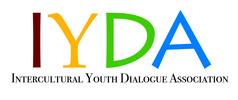
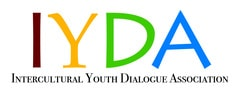
fix: compressed images

diff --git a/index.html b/index.html
@@ -1,1 +1,1 @@
-<!DOCTYPE html><head><title>Portfolio</title><meta name="viewport" content="width=device-width, initial-scale=1"><link rel="stylesheet" href="./editor/css/main.css" async></head><body><header class="frame"><div class="para1"></div><div class="para2"></div><div class="para3"></div><div class="head_frame"><div class="text"><p>Hello! My name is Sankit and I'm a</p><p>Full Stack developer. When I'm not</p><p>freelancing, I work on local</p><p>projects to learn and explore new</p><p>technologies.</p><br><p>I love working on the web but I'm also</p><p>intrested in console applications and</p><p>computer sciences in general.</p></div></div><div class="dp"><div class="intro"><h1>Hello!</h1></div></div><div class="social_frame"><a href="https://github.com/sankitshane" target="_blank"><div class="icons github"></div></a><a href="https://www.linkedin.com/in/sankit-acharya-476760113/" target="_blank"><div class="icons linkedin"></div></a><a href="https://www.instagram.com/sankit_shane/?hl=en" target="_blank"><div class="icons instagram"></div></a><a href="https://www.facebook.com/sankit.acharya" target="_blank"><div class="icons facebook"></div></a></div></header><section class="portfolio"><div class="title"><h1>Portfolio</h1></div><div id="projects_club"><a href="https://github.com/sankitshane/Neighborhood-Map" target="_blank"><div class="project" id="project1"></div></a><a href="https://github.com/sankitshane/CatalogApp" target="_blank"><div class="project" id="project2"></div></a><a href="https://github.com/sankitshane/frontend-nanodegree-arcade-game" target="_blank"><div class="project" id="project3"></div></a><a href="https://github.com/sankitshane/J2EE-Project" target="_blank"><div class="project" id="project4"></div></a></div></section><section class="lang" style="height:620px;"><div class="title" style="color:black;"><h1>Things I Work On</h1></div><div class="periscope"><div class="box" id="box1"></div><div class="box" id="box2"></div><div class="box" id="box3"></div><div class="box" id="box4"></div><div class="box" id="box5"></div></div><div class="periscope num1" style="margin-top:170px;"><div class="box" id="box6"></div><div class="box" id="box7"></div><div class="box" id="box8"></div><div class="box" id="box9"></div><div class="box" id="box10"></div></div><div class="periscope num2" style="margin-top:340px;"><div class="box" id="box11"></div><div class="box" id="box12"></div><div class="box" id="box13"></div><div class="box" id="box14"></div></div></section><footer><div class="work"><h2>Worked with</h2></div><div class="worked_with"><div class="comp" id="comp1"><div class="text"><h4>Web Developer</h4><h4>Intern june 2014 - july 2014</h4></div></div><div class="comp" id="comp2"><div class="text"><h4>Accociate Software Developer</h4><h4>May 2016</h4></div></div></div><div class="contact"><div class="email"><h2>I'm available for freelance contracts, so get in touch at:</h2><h2>sankit.acharya@gmail.com or just click on the icon</h2><h2>To Check out my resume you know what to do :)</h2><a href="mailto:sankit.acharya@gmail.com"><div class="icons eic"></div></a><a href="https://docs.google.com/document/d/1L-LIjguvBqO3aAFAzafohixvtzioED1_8HDymfVDiZE/edit?usp=sharing" target="_blank"><div class="icons resume"></div></a></div></div></footer><script src="https://code.jquery.com/jquery-3.2.0.slim.min.js" integrity="sha256-qLAv0kBAihcHZLI3fv3WITKeRsUX27hd6upBBa0MSow=" crossorigin="anonymous"></script><script src="editor/script.js" async></script></body>
+<!DOCTYPE html><head><title>Portfolio</title><meta name="viewport" content="width=device-width, initial-scale=1"><link rel="stylesheet" href="./editor/css/main.css" defer></head><body><header class="frame"><div class="para1"></div><div class="para2"></div><div class="para3"></div><div class="head_frame"><div class="text"><p>Hello! My name is Sankit and I'm a</p><p>Full Stack developer. When I'm not</p><p>freelancing, I work on local</p><p>projects to learn and explore new</p><p>technologies.</p><br><p>I love working on the web but I'm also</p><p>intrested in console applications and</p><p>computer sciences in general.</p></div></div><div class="dp"><div class="intro"><h1>Hello!</h1></div></div><div class="social_frame"><a href="https://github.com/sankitshane" target="_blank"><div class="icons github"></div></a><a href="https://www.linkedin.com/in/sankit-acharya-476760113/" target="_blank"><div class="icons linkedin"></div></a><a href="https://www.instagram.com/sankit_shane/?hl=en" target="_blank"><div class="icons instagram"></div></a><a href="https://www.facebook.com/sankit.acharya" target="_blank"><div class="icons facebook"></div></a></div></header><section class="portfolio"><div class="title"><h1>Portfolio</h1></div><div id="projects_club"><a href="https://github.com/sankitshane/Neighborhood-Map" target="_blank"><div class="project" id="project1"></div></a><a href="https://github.com/sankitshane/CatalogApp" target="_blank"><div class="project" id="project2"></div></a><a href="https://github.com/sankitshane/frontend-nanodegree-arcade-game" target="_blank"><div class="project" id="project3"></div></a><a href="https://github.com/sankitshane/J2EE-Project" target="_blank"><div class="project" id="project4"></div></a></div></section><section class="lang" style="height:620px;"><div class="title" style="color:black;"><h1>Things I Work On</h1></div><div class="periscope"><div class="box" id="box1"></div><div class="box" id="box2"></div><div class="box" id="box3"></div><div class="box" id="box4"></div><div class="box" id="box5"></div></div><div class="periscope num1" style="margin-top:170px;"><div class="box" id="box6"></div><div class="box" id="box7"></div><div class="box" id="box8"></div><div class="box" id="box9"></div><div class="box" id="box10"></div></div><div class="periscope num2" style="margin-top:340px;"><div class="box" id="box11"></div><div class="box" id="box12"></div><div class="box" id="box13"></div><div class="box" id="box14"></div></div></section><footer><div class="work"><h2>Worked with</h2></div><div class="worked_with"><div class="comp" id="comp1"><div class="text"><h4>Web Developer</h4><h4>Intern june 2014 - july 2014</h4></div></div><div class="comp" id="comp2"><div class="text"><h4>Accociate Software Developer</h4><h4>May 2016</h4></div></div></div><div class="contact"><div class="email"><h2>I'm available for freelance contracts, so get in touch at:</h2><h2>sankit.acharya@gmail.com or just click on the icon</h2><h2>To Check out my resume you know what to do :)</h2><a href="mailto:sankit.acharya@gmail.com"><div class="icons eic"></div></a><a href="https://docs.google.com/document/d/1L-LIjguvBqO3aAFAzafohixvtzioED1_8HDymfVDiZE/edit?usp=sharing" target="_blank"><div class="icons resume"></div></a></div></div></footer><script src="https://code.jquery.com/jquery-3.2.0.slim.min.js" integrity="sha256-qLAv0kBAihcHZLI3fv3WITKeRsUX27hd6upBBa0MSow=" crossorigin="anonymous"></script><script src="editor/script.js" async></script></body>
